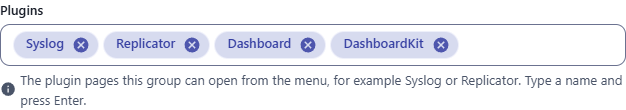
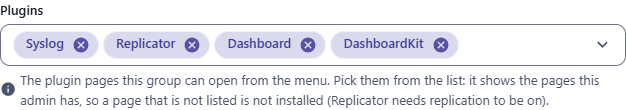
Groups: the Plugins field is a drop-down of the plugin pages, and admins get Replicator only when replication runs
The pillbox option suggest: 'adminPlugins' lists the plugin pages of the admin. The admins group gets the Replicator default only while replication is enabled, and loses it at the next start when it is turned off.

Changed region(s): [[0.0304, 0.8727, 0.8802, 0.9818], [0.516, 0.6818, 1.0, 0.8182], [0.9409, 0.3818, 0.9712, 0.4364]]

diff --git a/lib/plugins/authentication/index.js b/lib/plugins/authentication/index.js
@@ -21,8 +21,10 @@ const relativeTime = require('dayjs/plugin/relativeTime')
 Dayjs.extend(relativeTime)
 const logger = require('../../logger')
 
-// admin plugin pages every admin gets (the display names the admin UI lists); more can be added to the group by hand
-const ADMIN_DEFAULT_PLUGINS = ['Syslog', 'Replicator']
+// admin plugin pages every admin gets (the display names the admin UI lists); more can be added to the group by hand.
+// The Replicator page exists only when replication runs, so it is a default only then.
+const ADMIN_DEFAULT_PLUGINS = ['Syslog']
+const REPLICATOR_PLUGIN = 'Replicator'
 // Default options
 // let defaults = {
 //   users: {
@@ -231,7 +233,7 @@ const schemas = {
         field: 'plugins',
         input: 'pillbox',
         options: {
-          listBox: true
+          suggest: 'adminPlugins'
         },
         label: {
           enUS: 'Plugins',
@@ -259,7 +261,7 @@ const hints = {
     update: { enUS: 'The resources whose records this group may change.', zhCN: '此组可以修改其记录的资源。' },
     attachments: { enUS: 'The resources whose files and images this group may upload and remove.', zhCN: '此组可以上传和删除其文件和图片的资源。' },
     remove: { enUS: 'The resources whose records this group may delete.', zhCN: '此组可以删除其记录的资源。' },
-    plugins: { enUS: 'The plugin pages this group can open from the menu, for example Syslog or Replicator. Type a name and press Enter.', zhCN: '此组可以从菜单打开的插件页面，例如 Syslog 或 Cms Config。输入名称后按回车。' }
+    plugins: { enUS: 'The plugin pages this group can open from the menu. Pick them from the list: it shows the pages this admin has, so a page that is not listed is not installed (Replicator needs replication to be on).', zhCN: '此组可以从菜单打开的插件页面。从列表中选择：列表显示此管理界面拥有的页面，未列出的页面尚未安装（复制器需要开启复制功能）。' }
   }
 }
 _.each(hints, (fieldHints, resource) => {
@@ -994,12 +996,15 @@ class Authentication {
         remove: this.cms._resourceNames
       }
       try {
+        const replication = !this.cms.options.disableReplication
+        const defaultPlugins = replication ? [...ADMIN_DEFAULT_PLUGINS, REPLICATOR_PLUGIN] : ADMIN_DEFAULT_PLUGINS
         let adminsGroup = await this.groups.find({ name: 'admins' })
         if (!adminsGroup || !adminsGroup._id) {
-          adminsGroup = await this.groups.create({name: 'admins', ...adminPermissions, plugins: ADMIN_DEFAULT_PLUGINS})
+          adminsGroup = await this.groups.create({name: 'admins', ...adminPermissions, plugins: defaultPlugins})
         } else {
-          // admins always get the default plugins; plugins added by hand stay
-          adminsGroup = await this.groups.update(adminsGroup._id, {...adminPermissions, plugins: _.union(adminsGroup.plugins || [], ADMIN_DEFAULT_PLUGINS)})
+          // admins always get the default plugins; plugins added by hand stay. Without replication the Replicator default goes away
+          const current = replication ? adminsGroup.plugins || [] : _.without(adminsGroup.plugins || [], REPLICATOR_PLUGIN)
+          adminsGroup = await this.groups.update(adminsGroup._id, {...adminPermissions, plugins: _.union(current, defaultPlugins)})
         }
         this.adminsGroup = adminsGroup
       } catch (error) {

diff --git a/test/unit/authentication.adminplugins.test.js b/test/unit/authentication.adminplugins.test.js
@@ -32,7 +32,7 @@ describe('admins group plugins (unit)', () => {
     }
   })
 
-  it('gives the admins group the Replicator plugin by default (the page only shows when replication runs)', () => {
+  it('gives the admins group the Replicator plugin only when replication runs', () => {
     // src/utils/pluginPages.js: ['CmsReplicator', 'Replicator']
     expect(authentication().adminsGroup.plugins).to.include('Replicator')
   })
@@ -44,5 +44,20 @@ describe('admins group plugins (unit)', () => {
     await new Promise((resolve, reject) => app.cms.bootstrapFunctions[0](error => error ? reject(error) : resolve()))
     const group = await auth.groups.find({ name: 'admins' })
     expect(group.plugins).to.include.members(['Syslog', 'Replicator', 'Sync Resource'])
+  })
+
+  describe('without replication', () => {
+    let plain
+    before(async () => { plain = await startApp({ disableReplication: true }) })
+    after(async () => { await plain.close() })
+
+    it('does not give the admins group the Replicator plugin, and takes it away at the next start', async () => {
+      const auth = plain.cms.$authentication
+      expect(auth.adminsGroup.plugins).to.deep.equal(['Syslog'])
+      await auth.groups.update(auth.adminsGroup._id, { plugins: ['Syslog', 'Replicator', 'Sync Resource'] })
+      await new Promise((resolve, reject) => plain.cms.bootstrapFunctions[0](error => error ? reject(error) : resolve()))
+      const group = await auth.groups.find({ name: 'admins' })
+      expect(group.plugins).to.have.members(['Syslog', 'Sync Resource'])
+    })
   })
 })

diff --git a/src/components/fields/CustomInputTag.vue b/src/components/fields/CustomInputTag.vue
@@ -2,7 +2,7 @@
   <div class="custom-input-tag">
     <v-combobox
       ref="input"
-      :theme="theme" :class="[schema.labelClasses]" :type="getType()" :model-value="_value" :input-value="_value"
+      :theme="theme" :class="[schema.labelClasses]" :type="getType()" :model-value="_value" :input-value="_value" :items="suggestions"
       :max-length="schema.max" :min-length="schema.min" autocomplete="off" validate-on-submit :rules="[validateField]" persistent-placeholder hide-details="auto" chips closable-chips multiple
       :variant="getVariant()" :flat="get('flat')" :rounded="get('rounded')" :density="get('density')" :disabled="disabled" :readonly="get('readonly')" clearable
       @update:model-value="onChangeData" @update:focused="onFieldFocus" @paste="onPaste"
@@ -31,6 +31,16 @@
 
   export default {
     mixins: [AbstractField, Notification],
+    computed: {
+      // the drop-down of a field that suggests values: `options.suggest: 'adminPlugins'` lists the plugin pages this admin has
+      // (the built-in ones that run, and those of the project), so that a group is given them by picking, not by typing a name
+      suggestions () {
+        if (_.get(this.schema, 'options.suggest') === 'adminPlugins') {
+          return _.uniq(_.compact(_.map(window.plugins, 'displayname')))
+        }
+        return []
+      }
+    },
     methods: {
       getType () {
         return _.get(this.schema, 'inputFieldType', 'text')

diff --git a/test/frontend/customInputTag.component.test.js b/test/frontend/customInputTag.component.test.js
@@ -60,4 +60,14 @@ describe('CustomInputTag (the pillbox)', () => {
     const wrapper = tags({ tags: ['a'] }, { readonly: true })
     expect(wrapper.get('input:not([type=hidden])').attributes('readonly')).toBeDefined()
   })
+
+  it('offers the plugin pages of the admin when the field suggests them', () => {
+    window.plugins = [{ displayname: 'Syslog' }, { displayname: 'Dashboard' }, { displayname: 'Syslog' }, {}]
+    try {
+      expect(tags({}, { options: { suggest: 'adminPlugins' } }).vm.suggestions).toEqual(['Syslog', 'Dashboard'])
+      expect(tags().vm.suggestions).toEqual([])
+    } finally {
+      delete window.plugins
+    }
+  })
 })

diff --git a/docs/extending/PLUGINS.md b/docs/extending/PLUGINS.md
@@ -332,7 +332,7 @@ The script is the same as above, and the `<style>` block goes away. A plugin wri
    ```
 
    Working in a clone of the embed-cms repository instead? The admin takes its pages from `src/.plugins/` there, and `npm run serve-backend` with `npm run dev` rebuilds them as you type (see [CONTRIBUTING.md](../../CONTRIBUTING.md#running-it)).
-2. **Give a group the right.** Open **Groups** in the admin's **CMS** menu, and add `Dashboard` (the `displayname`) to the **Plugins** list of the group. The `admins` group keeps the plugins you add by hand.
+2. **Give a group the right.** Open **Groups** in the admin's **CMS** menu, and pick `Dashboard` (the `displayname`) in the **Plugins** list of the group: the list shows every page the admin has built in. The `admins` group keeps the plugins you add by hand.
 
    ![The Plugins field of the admins group, with Syslog, Replicator and Dashboard](../img/plugins-group.png)
 3. Reload the admin: **Dashboard** is in the menu under *Tools*.

diff --git a/docs/reference/fields/pillbox.md b/docs/reference/fields/pillbox.md
@@ -21,6 +21,7 @@ Catalogue: `resources/choice_multi.js`, fields `tags`, `requiredTags`, `localise
 | `required` | boolean | `false` | At least one tag: an empty required pillbox refuses the save (`This field is required!`). |
 | `min` / `max` | number | none | Minimum / maximum number of tags, declared at field level (next to `input`, not in `options`). Messages: `Add at least 2 tags` / `At most 4 tags`, under the field, on blur and on save. |
 | `options.hint` | string | none | Help text under the field. |
+| `options.suggest` | `'adminPlugins'` | none | Adds a drop-down of values to pick from. `'adminPlugins'` lists the plugin pages of the admin, which is what the Plugins field of a group uses. |
 | `options.readonly` | boolean | `false` | Passed to the combobox as `readonly`: the tags stay, and can't be added or removed (see `readOnlyTags`). |
 | `options.disabled` | boolean | `false` | Greyed out (see `disabledTags`). |
 

diff --git a/docs/operations/REPLICATION.md b/docs/operations/REPLICATION.md
@@ -94,7 +94,7 @@ Two things to know. First, only resources whose `type` isn't `normal` sync autom
 
 ## Starting a sync by hand
 
-When replication runs, the admin has a **Replicator** page in the System menu (for the `admins` group, which gets it by default). It lists the resources with their type and peers, syncs a resource or one record, and says which peers failed. The same is available over HTTP to any logged-in user (the routes are in `routesToAuth`), and from code:
+When replication runs, the admin has a **Replicator** page in the System menu (for the `admins` group, which gets it by default whenever replication runs). It lists the resources with their type and peers, syncs a resource or one record, and says which peers failed. The same is available over HTTP to any logged-in user (the routes are in `routesToAuth`), and from code:
 
 | Route | What it does |
 |---|---|
